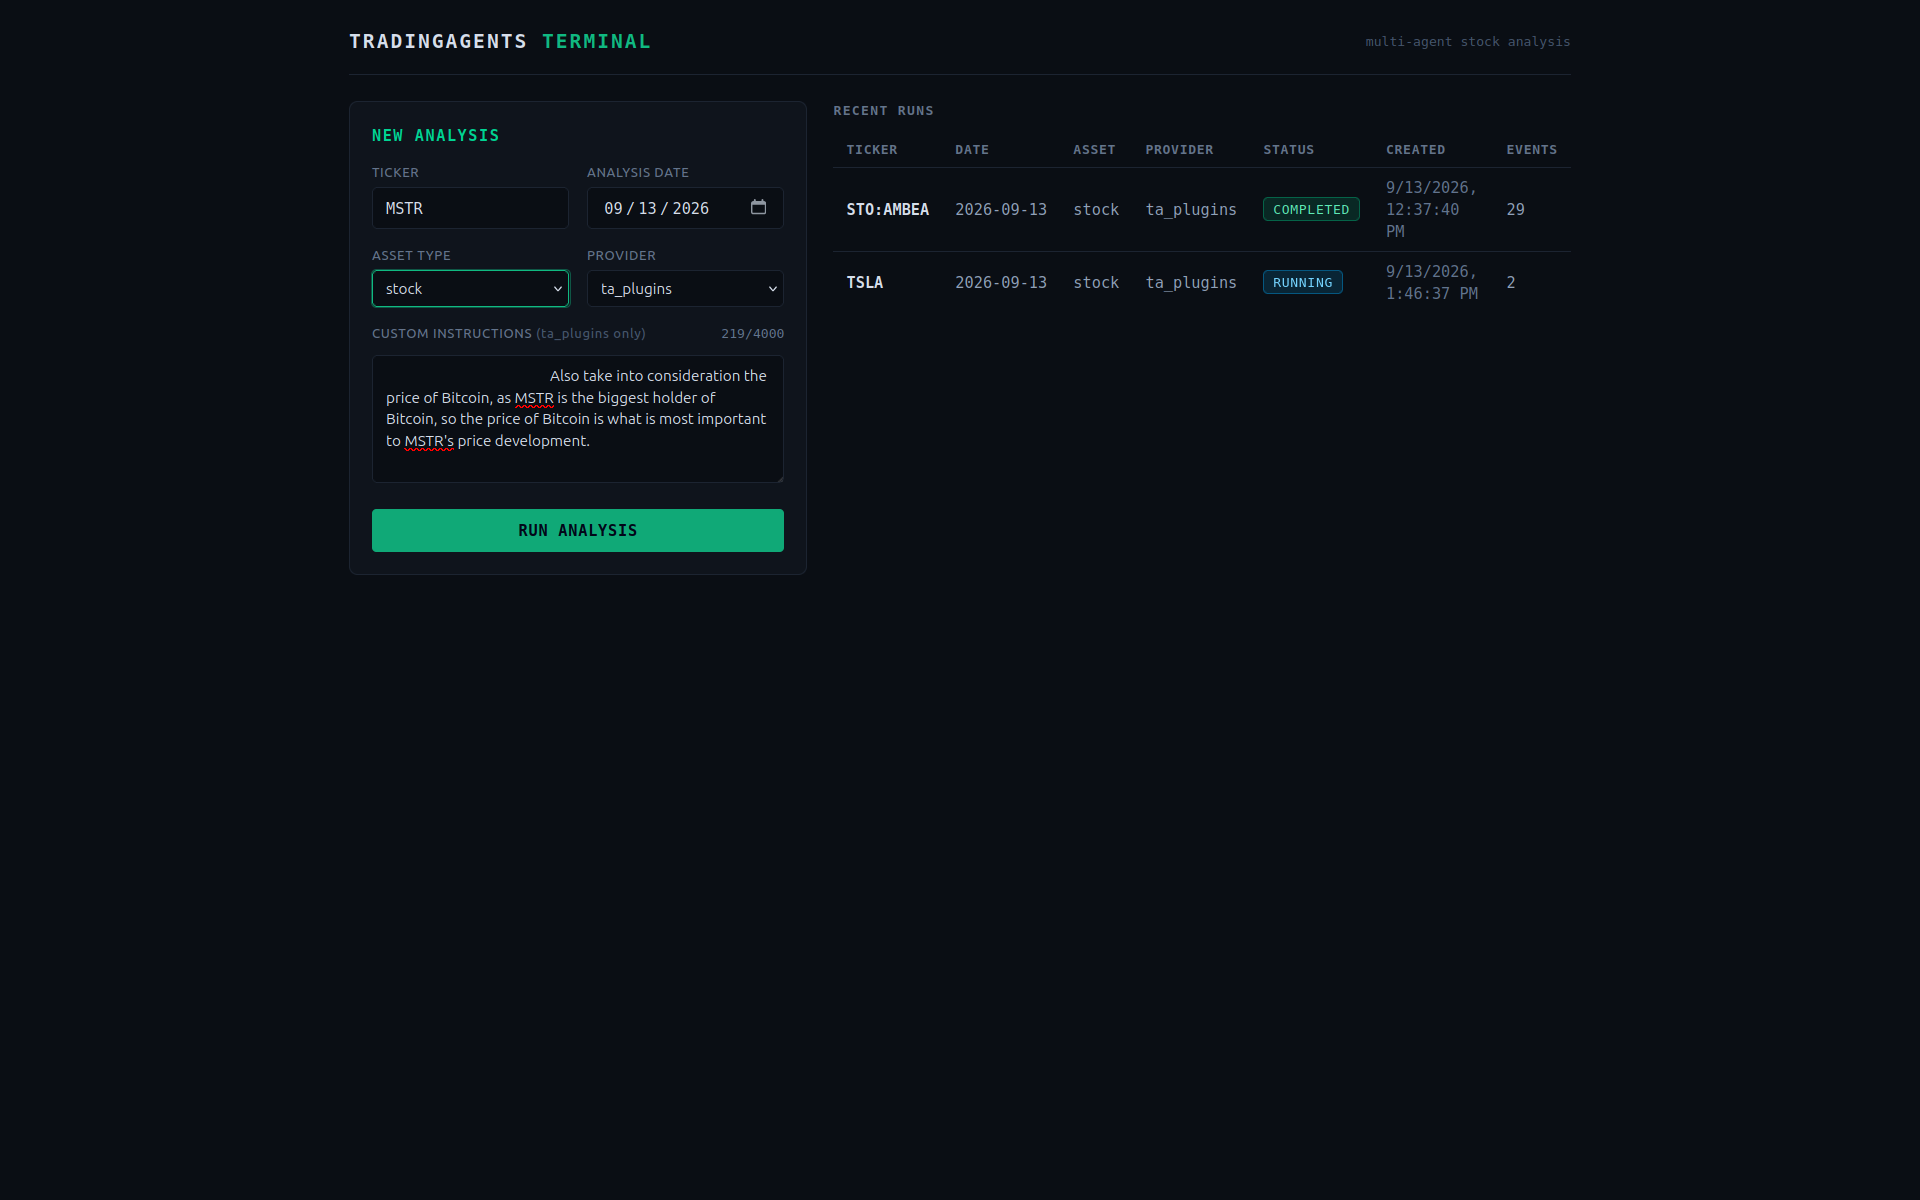
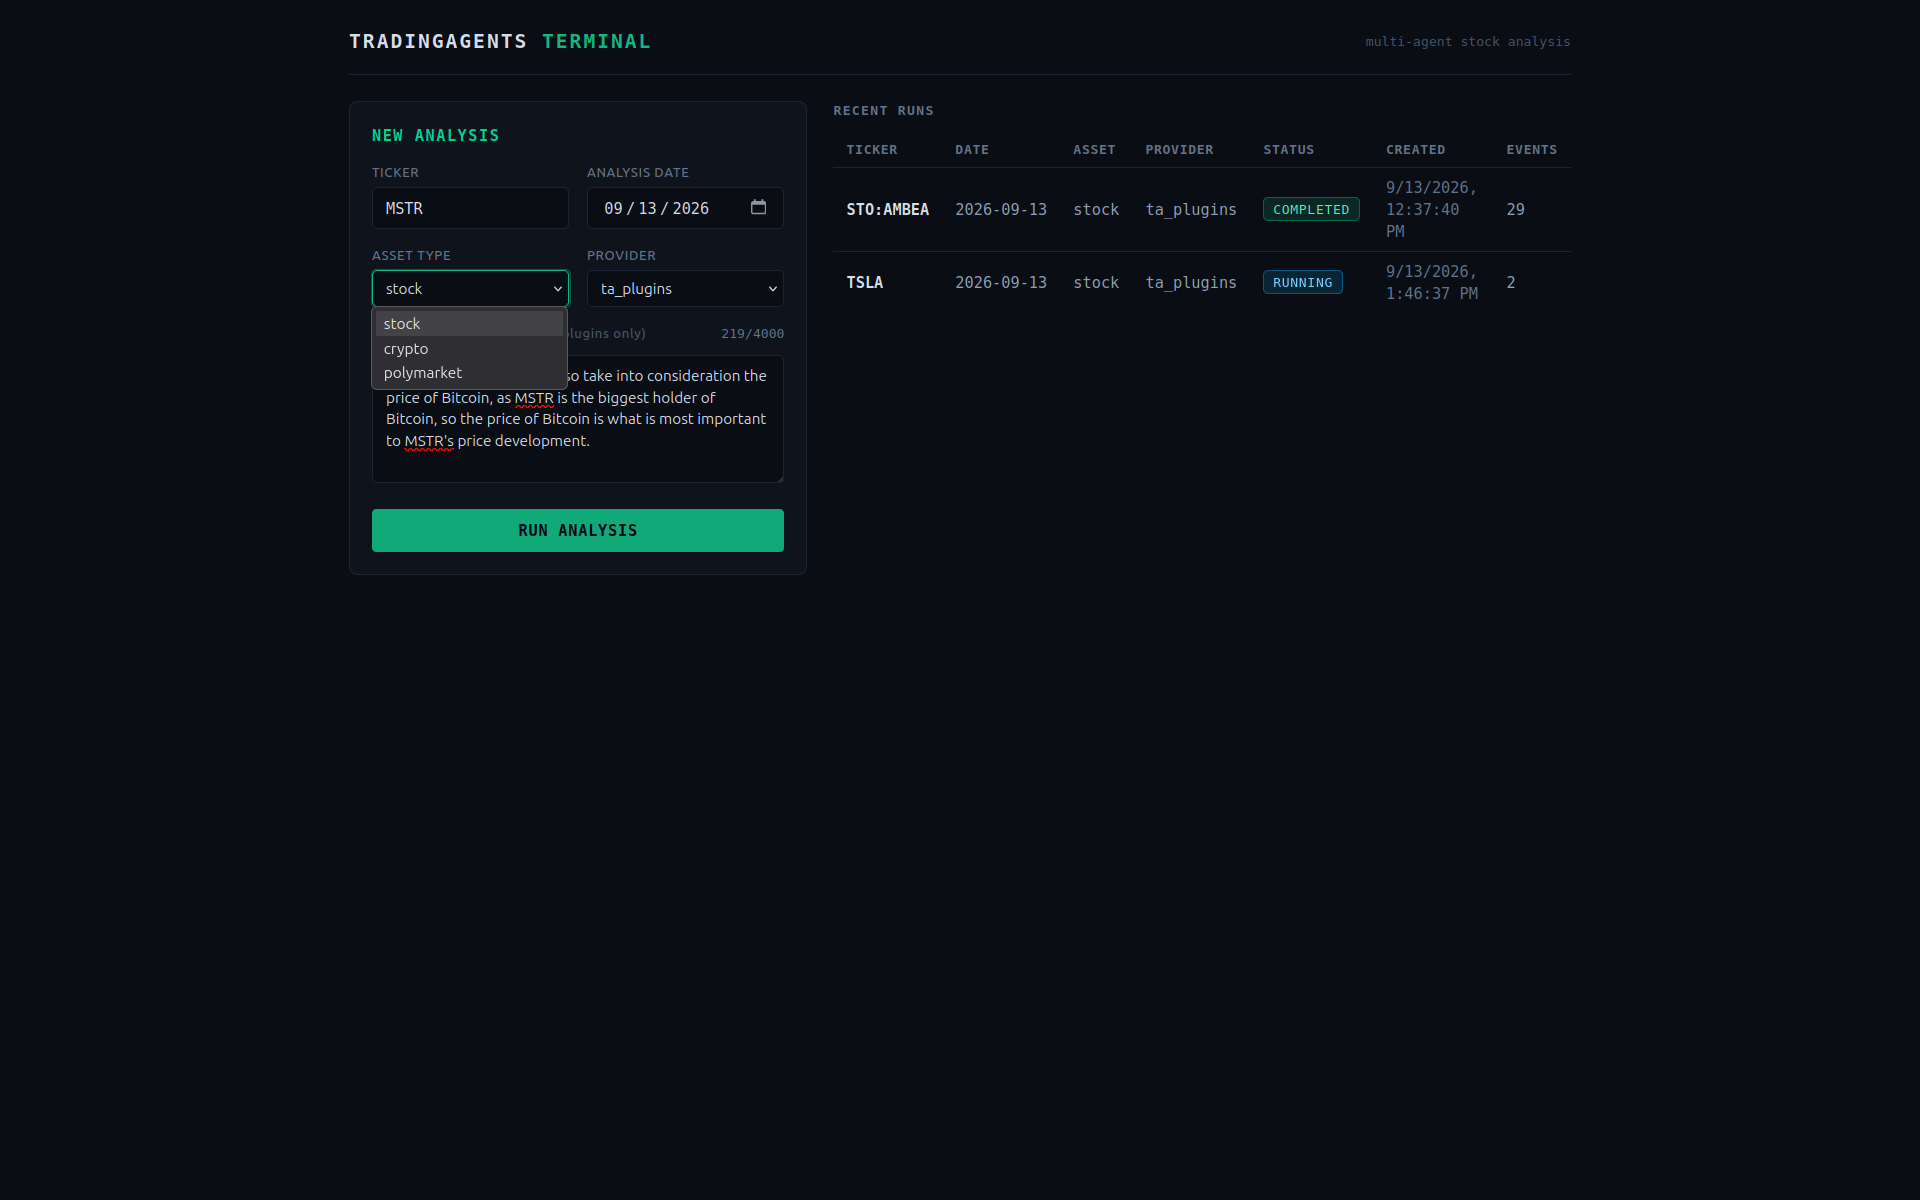
docs: replace interface screenshot (dropdown visible), clarify .env usage

Changed region(s): [[0.1875, 0.2467, 0.3125, 0.3392]]

diff --git a/README.md b/README.md
@@ -20,8 +20,9 @@ export OPENROUTER_API_KEY=sk-or-...   # Windows: set OPENROUTER_API_KEY=sk-or-..
 ```
 
 Then open **http://127.0.0.1:8000** — the app serves its own UI, single process.
-You can also add a env file into the mainfolder with (named .env) and put in
-OPENROUTER_API_KEY (or OPENAI_API_KEY +++ ) on the first line.
+Prefer not to export? Add a `.env` file to the main folder with your key on the
+first line — e.g. `OPENROUTER_API_KEY=sk-or-...` (other providers like
+`OPENAI_API_KEY` work too; see `USERGUIDE.md`).
 
 ![The TradingAgents Terminal start screen](docs/images/gui-interface.png)
 Defaults ship as OpenRouter + `z-ai/glm-5.3-flash`; see the packaged README for
